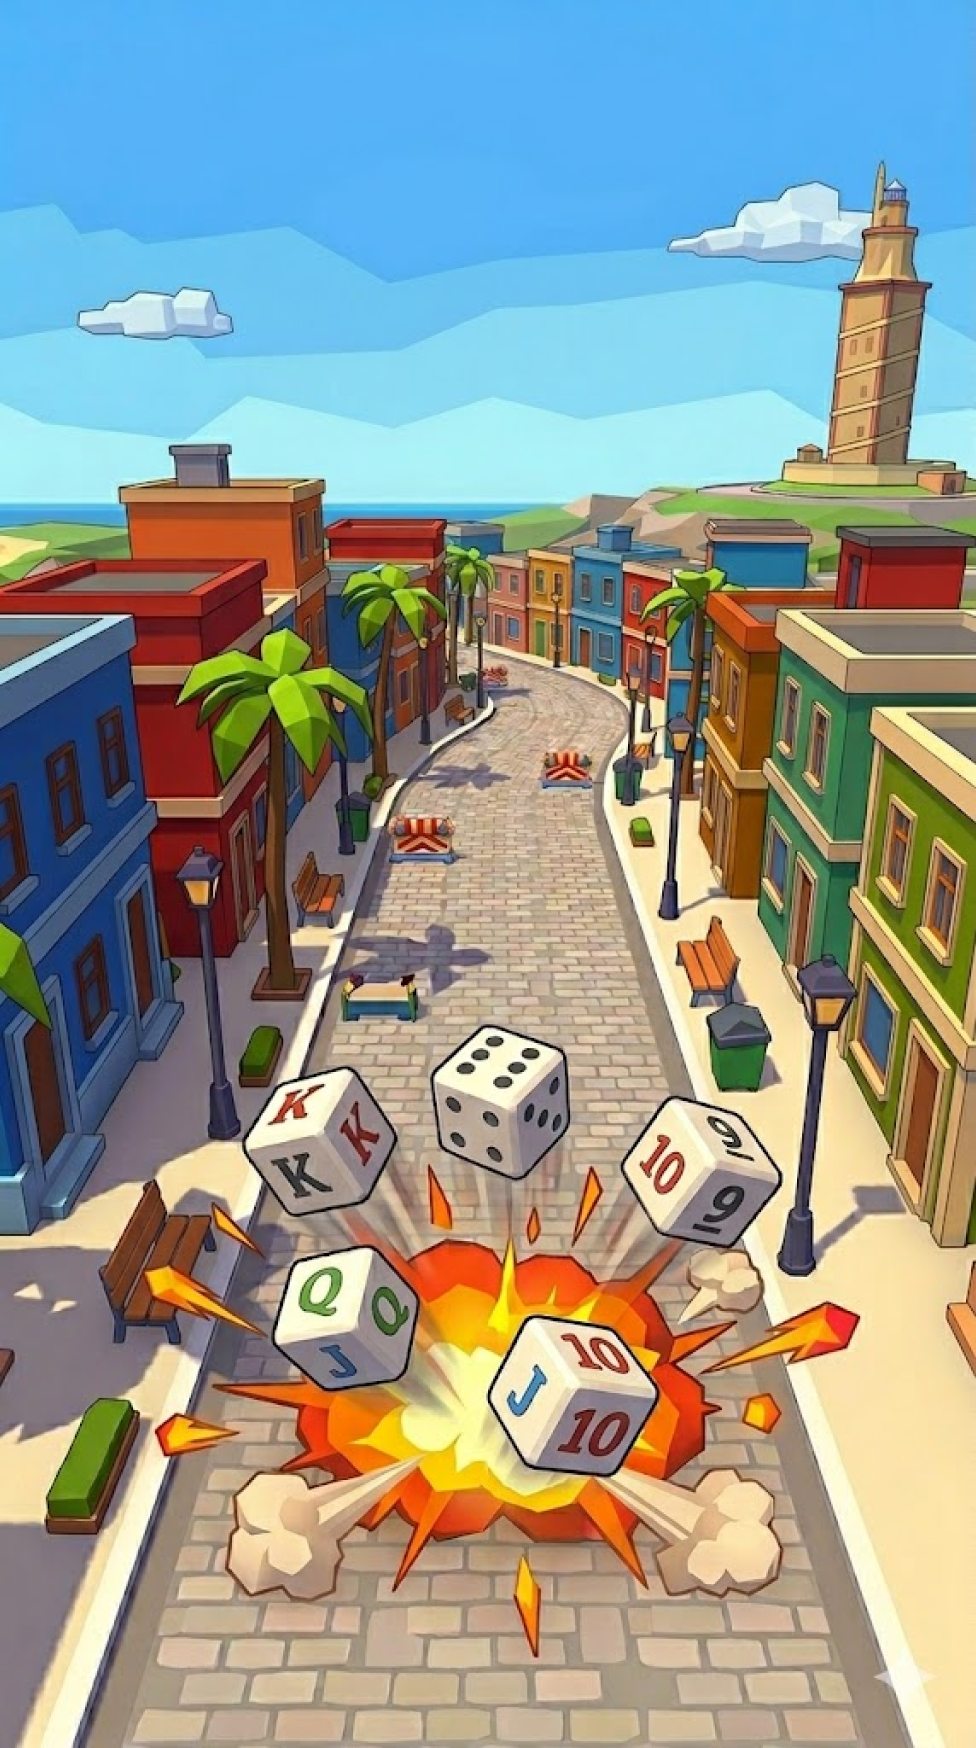
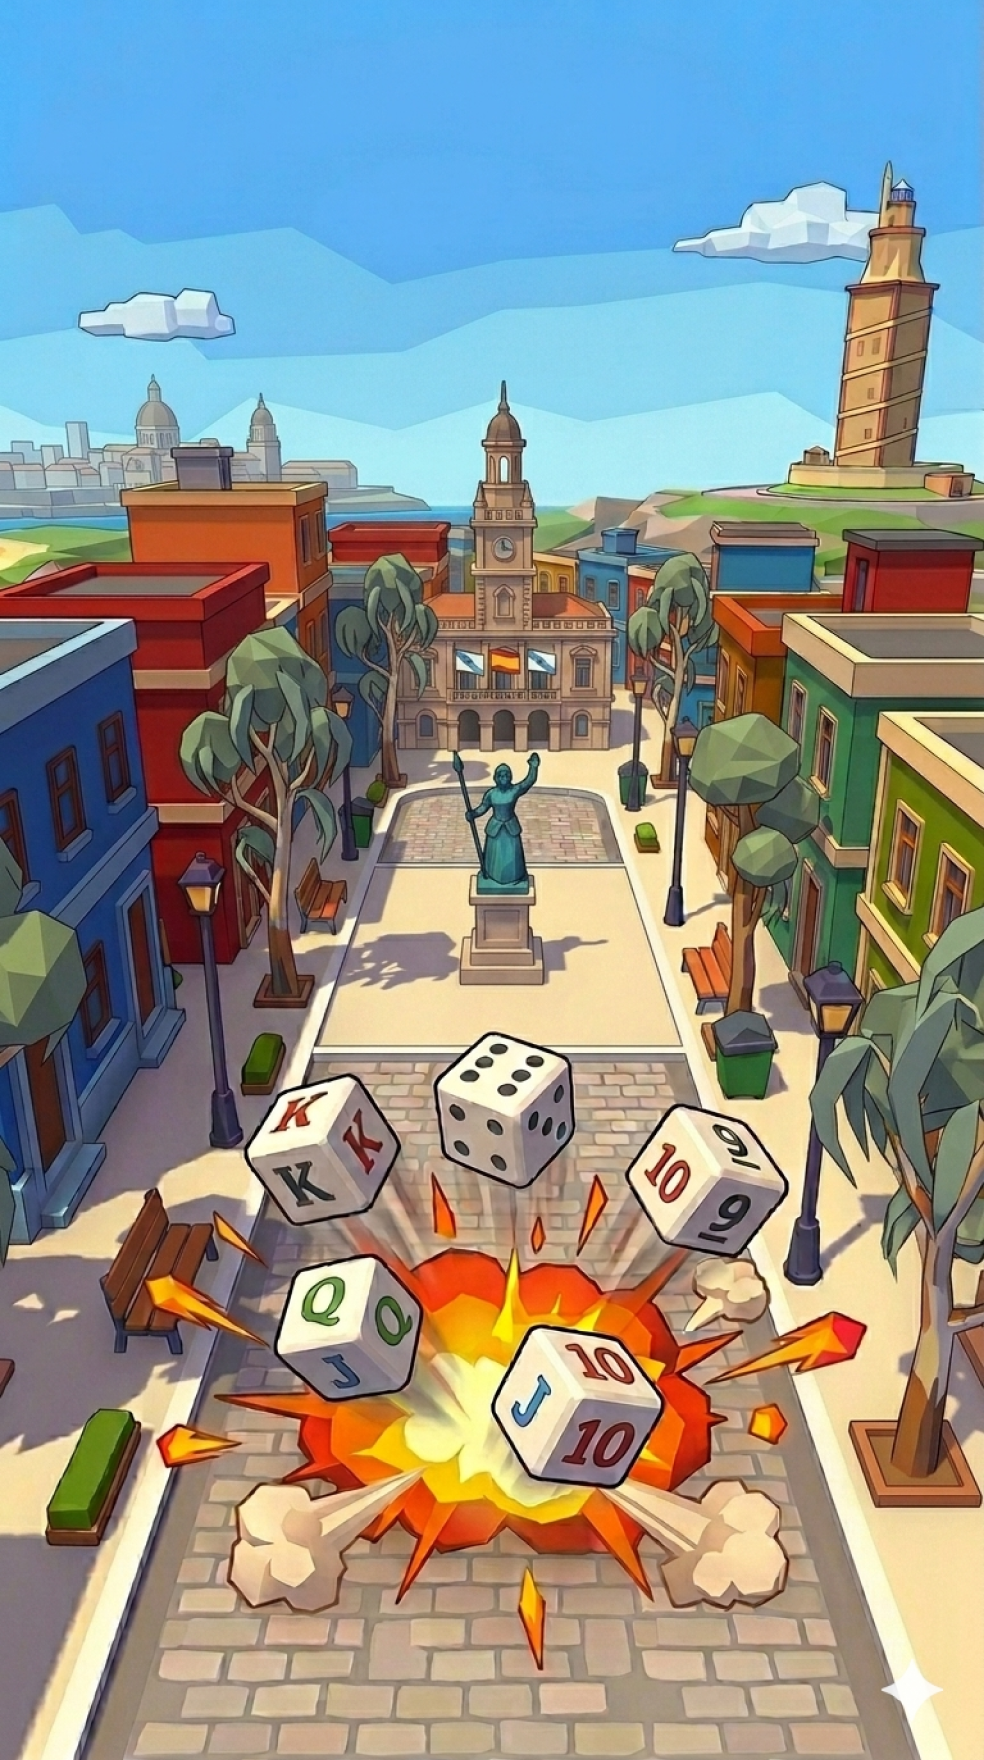
feat: nueva imagen de fondo A Coruña, fade-in inicial y corrección caras K/Q dados 3D
- Reemplaza bg-home.png por ilustración de la Plaza de María Pita con dados
- Pantalla arranca en blanco y hace fundido de 1.5s a la imagen (parallax se mantiene)
- Corrige orientación de caras K y Q en DiceRollerScene: Euler(-π/2, 0, ±π/2)
- Dados descartados muestran borde rojo + opacidad 35% en lugar de desaparecer
- Corrige esquinas negras en texturas de dados (relleno previo del canvas)

diff --git a/frontend/src/components/DiceRollerScene.jsx b/frontend/src/components/DiceRollerScene.jsx
@@ -9,12 +9,12 @@ const FACE_UP_QUATS = (() => {
   const E = THREE.Euler
   const Q = THREE.Quaternion
   return [
-    new Q().setFromEuler(new E(0, 0, -Math.PI / 2)),
-    new Q().setFromEuler(new E(0, 0,  Math.PI / 2)),
-    new Q(),
-    new Q().setFromEuler(new E(Math.PI, 0, 0)),
-    new Q().setFromEuler(new E(-Math.PI / 2, 0, 0)),
-    new Q().setFromEuler(new E( Math.PI / 2, 0, 0)),
+    new Q().setFromEuler(new E(-Math.PI / 2, 0,  Math.PI / 2)),  // +X face (K)  → +Y world, text legible
+    new Q().setFromEuler(new E(-Math.PI / 2, 0, -Math.PI / 2)),  // -X face (Q)  → +Y world, text legible
+    new Q(),                                            // +Y face (AS) → +Y world
+    new Q().setFromEuler(new E(Math.PI, 0, 0)),        // -Y face (7)  → +Y world
+    new Q().setFromEuler(new E(-Math.PI / 2, 0, 0)),  // +Z face (8)  → +Y world
+    new Q().setFromEuler(new E( Math.PI / 2, 0, 0)),  // -Z face (J)  → +Y world
   ]
 })()
 
@@ -37,6 +37,9 @@ function makeTex(value) {
   const cv = document.createElement('canvas')
   cv.width = cv.height = S
   const ctx = cv.getContext('2d')
+  // Fill full canvas so corners match the die face color (no black edges)
+  ctx.fillStyle = '#f5f2ee'
+  ctx.fillRect(0, 0, S, S)
   const r = S * 0.18
   ctx.fillStyle = '#f5f2ee'
   ctx.beginPath()
@@ -115,8 +118,17 @@ export default function DiceRollerScene({
       mesh.userData.idx = i
       mesh.visible = false
       scene.add(mesh)
+
+      // Red outline shown when die is marked for discard
+      const outline = new THREE.Mesh(
+        new THREE.BoxGeometry(DIE * 1.18, DIE * 1.18, DIE * 1.18),
+        new THREE.MeshBasicMaterial({ color: 0xe63946, side: THREE.BackSide })
+      )
+      outline.visible = false
+      mesh.add(outline)
+
       return {
-        mesh, body: null, value: null,
+        mesh, outline, body: null, value: null,
         phase: 'hidden',  // hidden|rolling|facing|placing|idle
         ts: 0,
         fq: new THREE.Quaternion(), tq: new THREE.Quaternion(),
@@ -190,12 +202,18 @@ export default function DiceRollerScene({
   // eslint-disable-next-line react-hooks/exhaustive-deps
   }, [rollKey])
 
-  // ── Pending discards: show/hide ─────────────────────────────────────────────
+  // ── Pending discards: mark with red outline + reduced opacity ───────────────
   useEffect(() => {
     const ctx = ctxRef.current
     if (!ctx) return
     ctx.dice.forEach((d, i) => {
-      if (d.phase === 'idle') d.mesh.visible = !pendingDiscards.includes(i)
+      if (d.phase !== 'idle') return
+      const discarded = pendingDiscards.includes(i)
+      d.outline.visible = discarded
+      d.mesh.material.forEach(mat => {
+        mat.transparent = discarded
+        mat.opacity = discarded ? 0.35 : 1.0
+      })
     })
   // eslint-disable-next-line react-hooks/exhaustive-deps
   }, [pendingDiscards.join(',')])
@@ -249,6 +267,8 @@ function doRoll(ctx, values, rollingIndices) {
     dice[i].phase = 'rolling'
     dice[i].mesh.visible = true
     dice[i].mesh.position.set(startX, startY, startZ)
+    dice[i].outline.visible = false
+    dice[i].mesh.material.forEach(mat => { mat.transparent = false; mat.opacity = 1.0 })
   })
 }
 

diff --git a/frontend/src/index.css b/frontend/src/index.css
@@ -1340,6 +1340,20 @@ body {
   transform: translateZ(0);
 }
 
+/* Overlay blanco para fade-in de la imagen de fondo */
+.home__fade-overlay {
+  position: absolute;
+  inset: 0;
+  z-index: 1;
+  background: #fff;
+  opacity: 1;
+  transition: opacity 1.5s ease;
+  pointer-events: none;
+}
+.home__fade-overlay--done {
+  opacity: 0;
+}
+
 /* ── Logo BULE BULE — 3 fases de animación ─────────────────── */
 .home__logo {
   position: absolute;

diff --git a/frontend/src/components/RoomList.jsx b/frontend/src/components/RoomList.jsx
@@ -14,11 +14,17 @@ export default function RoomList({ user, playerName, onNameChange, onLogin, onSe
   const [joiningCode, setJoiningCode] = useState(null)
   const [connected, setConnected] = useState(socket.connected)
   const [animPhase, setAnimPhase] = useState('splash')
+  const [bgVisible, setBgVisible] = useState(false)
 
   useEffect(() => {
     const t1 = setTimeout(() => setAnimPhase('logo-center'), 350)
     const t2 = setTimeout(() => setAnimPhase('logo-top'), 2000)
     return () => { clearTimeout(t1); clearTimeout(t2) }
+  }, [])
+
+  useEffect(() => {
+    const raf = requestAnimationFrame(() => setBgVisible(true))
+    return () => cancelAnimationFrame(raf)
   }, [])
 
   useEffect(() => {
@@ -66,6 +72,9 @@ export default function RoomList({ user, playerName, onNameChange, onLogin, onSe
       <div className="home__bg-wrapper">
         <div className="home__bg" />
       </div>
+
+      {/* Overlay blanco para fade-in inicial */}
+      <div className={`home__fade-overlay${bgVisible ? ' home__fade-overlay--done' : ''}`} />
 
       {/* Logo BULE BULE — animado splash → center → top */}
       <img